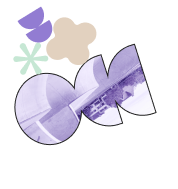
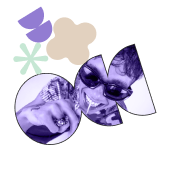
css home versie 2 mobile

Changed region(s): [[0.0843, 0.2381, 0.8989, 0.7672], [0.0562, 0.4497, 0.1404, 0.582], [0.1404, 0.3968, 0.1966, 0.4497]]

diff --git a/client/src/routes/Home.jsx b/client/src/routes/Home.jsx
@@ -3,6 +3,10 @@ import headerMobile from "../assets/images/header_mobile.png";
 import arrow from "../assets/images/arrow.svg";
 import arrowThin from "../assets/images/arrowThin.png";
 import imageJaar1 from "../assets/images/imageJaar1.png";
+import imageJaar2 from "../assets/images/imageJaar2.png";
+import imageJaar3 from "../assets/images/imageJaar3.png";
+import homeEindbeeld from "../assets/images/HomeEindbeeld.png";
+import tijdlijn from "../assets/images/tijdlijn.svg";
 
 export default function Index() {
 
@@ -31,7 +35,9 @@ let feedbackLoggedIn;
         </picture>
         <h1>
           B<span>L</span>OEIEND
-          <span className="uitroepteken">!</span> KORTRIJK
+          <span className="uitroepteken">!</span>
+          <br />
+          KORTRIJK
         </h1>
         <div className="headerIntro">
           <p>Plant een bloem voor de toekomst en laat Kortrijk bloeien.</p>
@@ -60,53 +66,72 @@ let feedbackLoggedIn;
         </div>
       </div>
       <ul className="homeBeeld3">
-        <li className="homeBeeld3Item">
-          <img src={imageJaar1} className="image2023" alt="compositie" />
-          <h3>2023</h3>
-          <div className="homeBeeld3ItemTekst">
-            <h4>Plant jouw verhaal</h4>
-            <p>
-              Laat jouw plek b(l)oeien via de website of vind ons gewoonweg op
-              de straten en ontvang een leuke extra.
-            </p>
-            <Link to="/plant" className="button buttonGreen">
-              <img className="arrowButton" src={arrow}></img> Plant een bloem
-            </Link>
+        <li>
+          <div className="homeBeeld3Item">
+            <img
+              src={imageJaar1}
+              className="image20 image2023"
+              alt="compositie"
+            />
+            <h3>2023</h3>
+            <div className="homeBeeld3ItemTekst">
+              <h4>Plant jouw verhaal</h4>
+              <p>
+                Laat jouw plek b(l)oeien via de website of vind ons gewoonweg op
+                de straten en ontvang een leuke extra.
+              </p>
+              <Link to="/plant" className="button buttonGreen">
+                <img className="arrowButton" src={arrow}></img> Plant een bloem
+              </Link>
+            </div>
           </div>
+          <img src={tijdlijn} alt="arrow thin" className="tijdlijnImage" />
+        </li>
+        <li>
+          <div className="homeBeeld3Item">
+            <img
+              src={imageJaar2}
+              className="image20 image2025"
+              alt="compositie"
+            />
+            <h3>2025</h3>
+            <div className="homeBeeld3ItemTekst">
+              <h4>Geplant! Wat nu?</h4>
+              <p>
+                Tot 2025 krijg je de kans om jouw verhaal te planten. Via de
+                kaart op deze website, kan je ook andere b(l)oeiende verhalen
+                ontdekken. Op deze manier kom je in contact met elkaar en leg je
+                connecties, ideaal om de stad nog beter te leren kennen én
+                begrijpen.
+              </p>
+              <Link to="/kaart" className="button buttonGreen">
+                <img className="arrowButton" src={arrow}></img>
+                Bekijk kaart
+              </Link>
+              <p>
+                In de zomer van 2025 zit de tijd om jouw verhaal te planten
+                erop. Na het tellen van de bloemen bepalen we de top 5
+                b(l)oeiendste plekken en bundelen we deze in een stadsgids.
+              </p>
+              <p>
+                Deze stadsgids zal volledig door jullie opgesteld worden, over
+                een periode van 5 jaar. Jullie krijgen de kans te bepalen wat we
+                schrijven en op basis hiervan wordt een route bepaald.
+              </p>
+              <Link to="/stadsgids" className="button buttonGreen">
+                <img className="arrowButton" src={arrow} />
+                Ontdek de stadsgids
+              </Link>
+            </div>
+          </div>
+          <img src={tijdlijn} alt="arrow thin" className="tijdlijnImage" />
         </li>
         <li className="homeBeeld3Item">
-          <img src={imageJaar1} className="image2023" alt="compositie" />
-          <h3>2025</h3>
-          <div className="homeBeeld3ItemTekst">
-            <h4>Geplant! Wat nu?</h4>
-            <p>
-              Tot 2025 krijg je de kans om jouw verhaal te planten. Via de kaart
-              op deze website, kan je ook andere b(l)oeiende verhalen ontdekken.
-              Op deze manier kom je in contact met elkaar en leg je connecties,
-              ideaal om de stad nog beter te leren kennen én begrijpen.
-            </p>
-            <Link to="/kaart" className="button buttonGreen">
-              <img className="arrowButton" src={arrow}></img>
-              Bekijk kaart
-            </Link>
-            <p>
-              In de zomer van 2025 zit de tijd om jouw verhaal te planten erop.
-              Na het tellen van de bloemen bepalen we de top 5 b(l)oeiendste
-              plekken en bundelen we deze in een stadsgids.
-            </p>
-            <p>
-              Deze stadsgids zal volledig door jullie opgesteld worden, over een
-              periode van 5 jaar. Jullie krijgen de kans te bepalen wat we
-              schrijven en op basis hiervan wordt een route bepaald.
-            </p>
-            <Link to="/stadsgids" className="button buttonGreen">
-              <img className="arrowButton" src={arrow}></img>
-              Ontdek de stadsgids
-            </Link>
-          </div>
-        </li>
-        <li className="homeBeeld3Item">
-          <img src={imageJaar1} className="image2023" alt="compositie" />
+          <img
+            src={imageJaar3}
+            className="image20 image2030"
+            alt="compositie"
+          />
           <h3>2030</h3>
           <div className="homeBeeld3ItemTekst homeBeeld33ItemTekst ">
             <h4>Bloeiend kortrijk</h4>
@@ -118,6 +143,7 @@ let feedbackLoggedIn;
           </div>
         </li>
       </ul>
+      <img src={homeEindbeeld} className="homeEindbeeld" alt="compositie" />
     </>
   );
 }

diff --git a/client/src/style/App.css b/client/src/style/App.css
@@ -37,7 +37,7 @@ p {
 h1 {
   font-family: "Anton", sans-serif;
   font-size: var(--font-size-h1);
-  max-width: 100vw;
+
   padding: 0.5vh 0 2vh;
   padding-left: 4vw;
   line-height: 0.95;
@@ -224,7 +224,7 @@ margin-bottom: 5vh;
 
 .homeBeeld3Item{
   border: #2c2c2c solid 1px;
-  margin: 10vh 4vw;
+  margin: -0.75vh 4vw 0;
 }
 
 .homeBeeld3Item > h3{
@@ -242,7 +242,7 @@ padding: 2vh 4vw 7vh;
 .homeBeeld3ItemTekst > h4{
   font-family: 'questrial', sans-serif;
   font-size: var(--font-size--p);
-  padding: 2vh 0 0;
+  padding: 3vh 0 0;
  
 }
 
@@ -256,12 +256,30 @@ padding: 2vh 4vw 7vh;
   max-width: 77.5vw;
 }
 
-.image2023{
+.tijdlijnImage{
+  height: 10vh;
+  width: auto;
+  margin: 0 auto;
+  display: block;
+  z-index: 1;
+}
+
+.image20{
   position: absolute;
   right: 0;
   margin-top: -5vh;
   z-index: 1;
-  height : 20vh;
+  height : 22.5vh;
+}
+
+.image2025{
+height: 26vh;
+}
+
+.image2030{
+  height: 14vh;
+  margin-top: 2vh;
+  right: 8vw;
 }
 
 .homeBeeld3ItemTekst>p:nth-child(4){
@@ -324,6 +342,12 @@ padding: 2vh 5vw 0 0 ;
 .footerInfo > * > p{
   font-size: var(--font-size--footer);
   line-height: 1.5;
+}
+
+.homeEindbeeld{
+text-align: center;
+display: block;
+margin: 7.5vh auto 0;
 }
 
 

diff --git a/client/src/components/Footer.jsx b/client/src/components/Footer.jsx
@@ -3,6 +3,7 @@ import facebook from "../assets/images/facebook.png";
 import instagram from "../assets/images/instagram.png";
 import footerImage from "../assets/images/footerImage.png";
 import kortrijkLogo from "../assets/images/kortrijkLogo.png";
+
 const Navbar = () => {
   return (
     <div className="footer">
